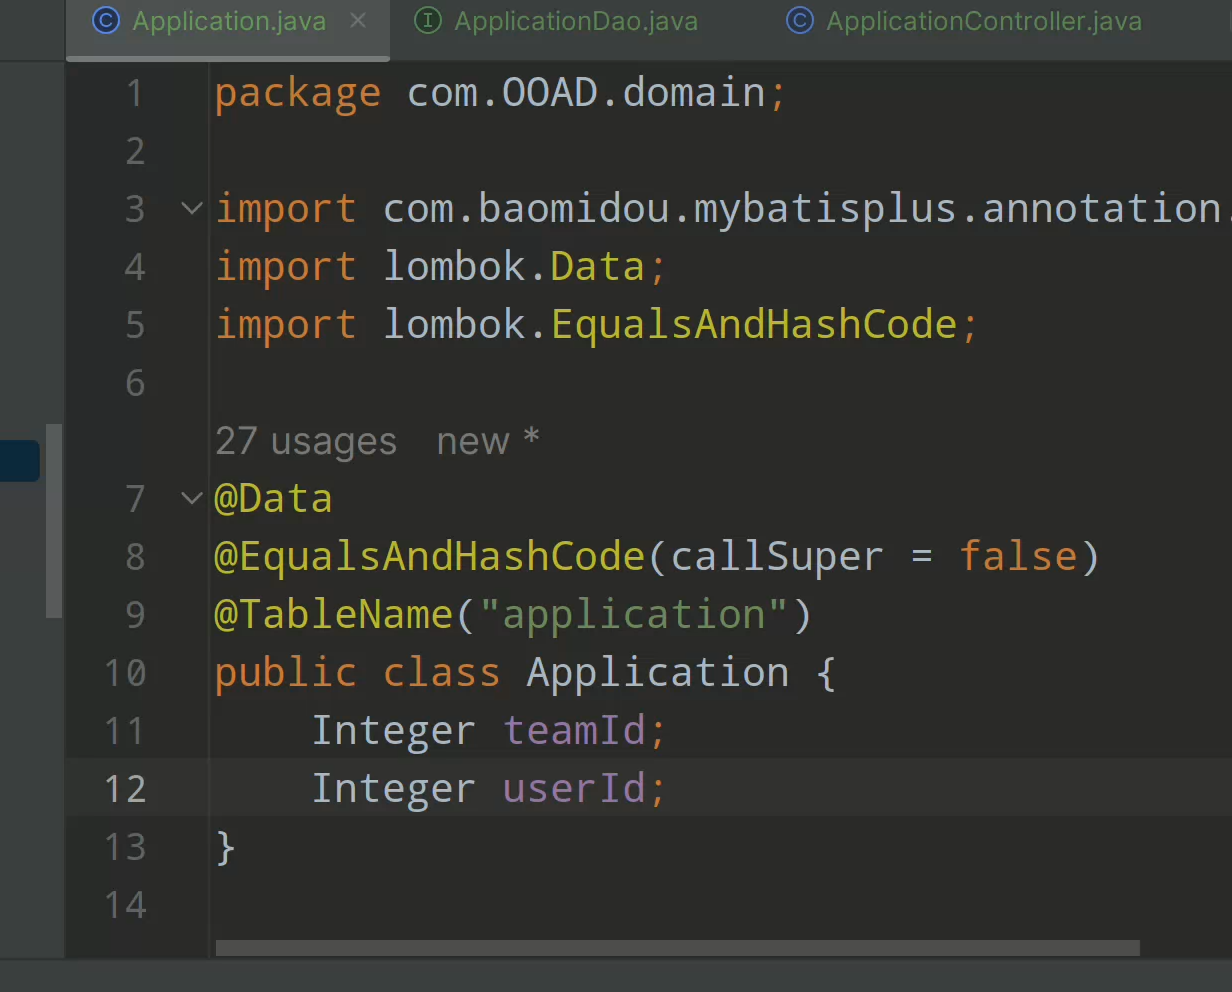
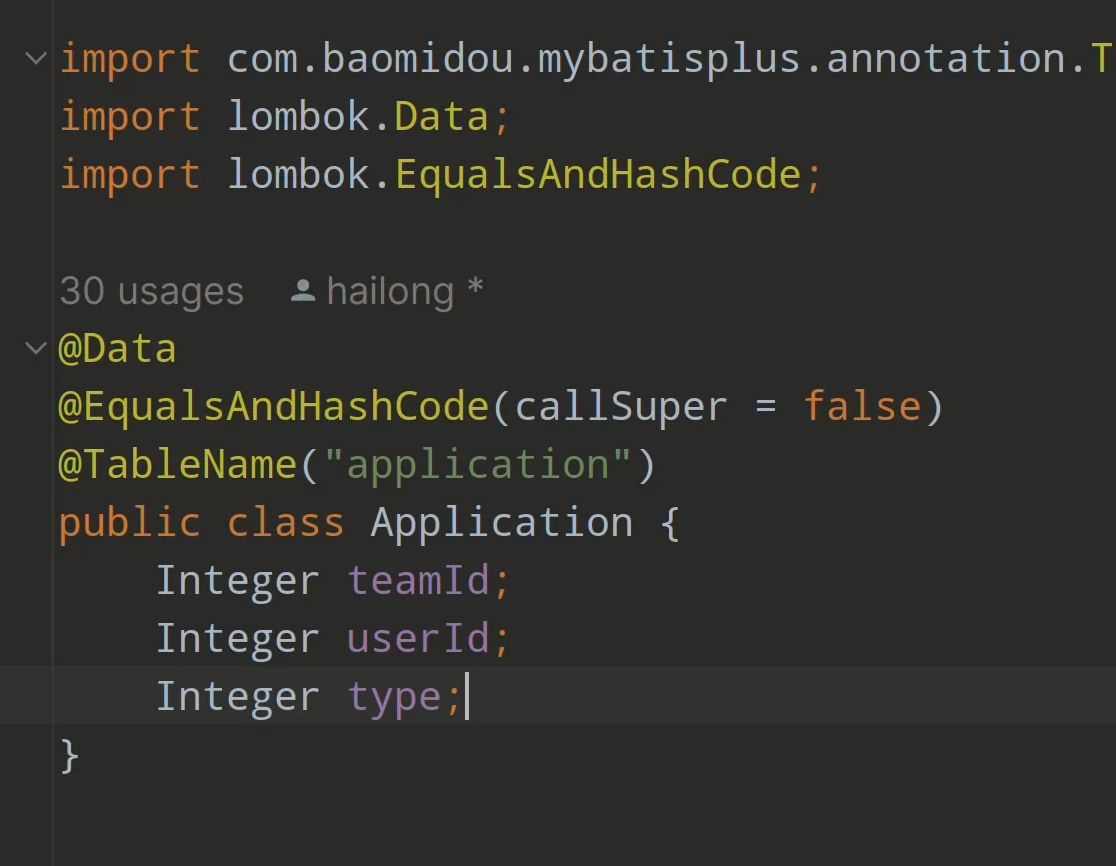
修改了application的逻辑

diff --git a/src/main/java/com/OOAD/service/impl/ApplicationServiceImpl.java b/src/main/java/com/OOAD/service/impl/ApplicationServiceImpl.java
@@ -45,14 +45,14 @@ public class ApplicationServiceImpl implements ApplicationService {
     @Override
     public List<Application> getByTeamId(int id) {
         LambdaQueryWrapper<Application> lqw = new LambdaQueryWrapper<>();
-        lqw.eq(Application::getTeamId, id);
+        lqw.eq(Application::getTeamId, id).eq(Application::getType, 0);
         return dao.selectList(lqw);
     }
 
     @Override
     public List<Application> getByPersonId(int id) {
         LambdaQueryWrapper<Application> lqw = new LambdaQueryWrapper<>();
-        lqw.eq(Application::getUserId, id);
+        lqw.eq(Application::getUserId, id).eq(Application::getType, 1);
         return dao.selectList(lqw);
     }
 }

diff --git a/src/main/java/com/OOAD/domain/Application.java b/src/main/java/com/OOAD/domain/Application.java
@@ -10,4 +10,5 @@ import lombok.EqualsAndHashCode;
 public class Application {
     Integer teamId;
     Integer userId;
+    Integer type;
 }

diff --git a/api.md b/api.md
@@ -662,15 +662,19 @@ Get方法获取所有帖子
 
 /application
 
-post方法，提供application类进行申请
+post方法，提供application类进行申请（这里尤其需要注意**type**，type=0表示某人申请加入某个组队，type=1表示某个组队邀请某人）
 
 delete方法，提供application类进行删除
 
 /application/team/{id}
 
-根据teamid查询申请，返回申请列表
+这里是由队长查询的，有多少人申请加入他的组队
+
+根据teamid查询申请，返回申请列表（Application类）
 
 /application/user/{id}
+
+这里是个人查询的有多少组队邀请了我。
 
 根据userid查询申请，返回申请项
 
